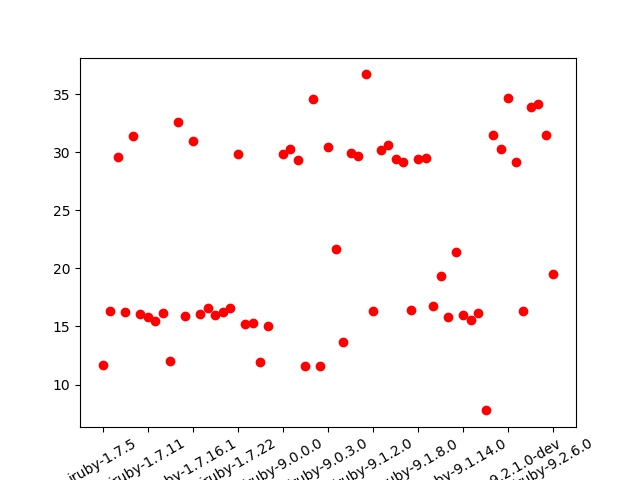
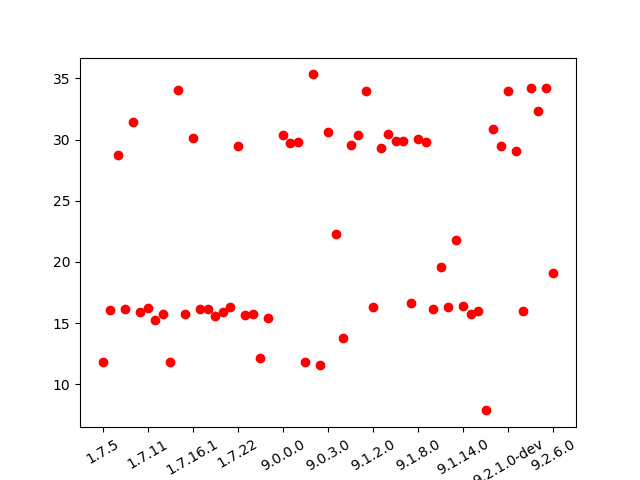
lots of stuff

diff --git a/stats.py b/stats.py
@@ -11,7 +11,13 @@ crubyStdDevs = []
 crubyVersions = []
 crubyVersionsLine = []
 crubyVersionsLineX = []
+crubyVersionsX = []
 crubyJumps = []
+
+newLineX = []
+newLine = []
+newLineV = []
+
 sortedCrubyJumps = []
 jrubyMeans = []
 jrubyStdDevs = []
@@ -19,13 +25,16 @@ jrubyVersions = []
 jrubyJumps = []
 sortedJrubyJumps = []
 
-for i in ['results.csv', 'jruby_results_flags.csv']:
+for file in ['cruby_results2_date.csv', 'jruby_results_flags2.csv']:
 
-	with open(i) as f:
+	with open(file) as f:
 
-		reader = csv.reader(f, delimiter=',')
+		if file == 'cruby_results2.csv' :
+			reader = reversed(list(csv.reader(f, delimiter=',')))
+		else :
+			reader = csv.reader(f, delimiter=',')
 
-		if i == 'jruby_results_flags.csv' :
+		if file == 'jruby_results_flags2.csv' :
 			#try:
 			#	reader = sorted(reader, key = lambda s: list(map(int, str(s[1])[6:].split('.'))))
 			#except ValueError:
@@ -34,11 +43,18 @@ for i in ['results.csv', 'jruby_results_flags.csv']:
 			reader = sorted(reader, key = lambda s: list(map(int, ((str((s[1].split('-'))[1])).split('.'))[:3])))
 		
 		ind = 0
+		max = 7
+		min = 2
+		localMaxVersion = 0
+		if file == 'cruby_results2_date.csv' :
+			max = 8
+			min = 3
+
 		for row in reader:
 			ind+=1
-			if len(row) == 7:
+			if len(row) == max:
 				times = []
-				for i in range(2, 7):
+				for i in range(min, max):
 					timeString = row[i].split(" ")[1]
 					times.append(float(timeString))
 
@@ -47,8 +63,18 @@ for i in ['results.csv', 'jruby_results_flags.csv']:
 					crubyMeans.append(np.mean(times))
 					crubyStdDevs.append(np.std(times))
 					crubyVersions.append(row[1][5:])
+					
 					crubyVersionsLine.append(np.mean(times))
-					crubyVersionsLineX.append(ind)
+					if file == 'cruby_results2_date.csv' :
+						crubyVersionsLineX.append(int(row[2]))
+						crubyVersionsX.append(int(row[2]))
+						if int(row[1][7]) >= localMaxVersion:
+							localMaxVersion = int(row[1][7])
+							newLineX.append(int(row[2]))
+							newLine.append(np.mean(times))
+							newLineV.append(row[1])
+					else :
+						crubyVersionsLineX.append(ind)
 				else:
 					jrubyMeans.append(np.mean(times))
 					jrubyStdDevs.append(np.std(times))
@@ -59,24 +85,32 @@ for i in ['results.csv', 'jruby_results_flags.csv']:
 					crubyMeans.append(NOVERSION)
 					crubyStdDevs.append(NOVERSION)
 					crubyVersions.append(row[1][5:])
+					if file == 'cruby_results2_date.csv' :
+						crubyVersionsX.append(int(row[2]))
 				else:
 					jrubyMeans.append(NOVERSION)
 					jrubyStdDevs.append(NOVERSION)
 					jrubyVersions.append("x")
 ##cRuby
 
+#print(newLineX)
+#print(newLine)
+#print(newLineV)
+
 #Get Jump Values
 crubyJumps.append(NOJUMP)
 for i in range(1, len(crubyMeans)) :
 	if (crubyMeans[i] != NOVERSION and crubyMeans[i-1] != NOVERSION) :
 		crubyJumps.append(crubyMeans[i] - crubyMeans[i-1])
+		#if crubyMeans[i] < crubyMeans[i-1] :
+			#print("Version {}, value: {}".format(crubyVersions[len(crubyJumps)-1], crubyMeans[i] - crubyMeans[i-1]))
 	else : 
 		crubyJumps.append(NOJUMP)
 
 #Finding max jump versions
 print("cRuby:")
 sortedCrubyJumps = crubyJumps.copy()
-sortedCrubyJumps.sort(reverse = True)
+sortedCrubyJumps.sort()
 for i in range(0, 10) :
 	jumpVal = sortedCrubyJumps[i]
 	print(jumpVal, end=', ')
@@ -88,7 +122,12 @@ for i in range(0, 10) :
 
 #for i in range(0, len(crubyVersions)) :
 #	xValsCruby.append(i)
-m, b = np.polyfit(crubyVersionsLineX, crubyVersionsLine, 1)
+
+#true if dates
+if True :
+	m, b = np.polyfit(newLineX, newLine, 1)
+else:
+	m, b = np.polyfit(crubyVersionsLineX, crubyVersionsLine, 1)
 
 crubyLine = []
 
@@ -132,18 +171,21 @@ CST=6
 crubyX = [int(i)*CST for i in np.arange(0, len(crubyVersions)/CST)]
 crubyVersionsPlot = (itemgetter(*crubyX)(crubyVersions))
 
+allXs = [i for i in range(2131)]
+
 plt.figure(figsize=(10, 7.6))
-plt.plot(crubyMeans, 'ro', markersize=12)
-plt.plot(crubyVersionsLineX, crubyLine, linewidth=6)
+plt.plot(crubyVersionsX, crubyMeans, 'ro', markersize=12)
+plt.plot(newLineX, newLine, 'go', markersize=12)
+plt.plot(crubyVersionsLineX, crubyLine, linewidth=6, alpha=0)
 plt.yticks(fontsize=17)
-plt.xticks(rotation=45, ha='right', fontsize=17)
-plt.xticks(crubyX, crubyVersionsPlot)
-plt.xlabel("cRuby Versions", fontsize=24)
+plt.xticks(fontsize=17)
+#plt.xticks(rotation=45, ha='right', fontsize=17)
+#plt.xticks(crubyX, crubyVersionsPlot)
+plt.xlabel("Time Since Original Version (days)", fontsize=24)
 plt.ylabel("Measured Result (fps)", fontsize=24)
 #plt.title()
 plt.tight_layout()
 plt.savefig("figRubyMeans.png")
-plt.show()
 plt.clf()
 
 plt.plot(crubyStdDevs, 'ro')
@@ -165,6 +207,7 @@ plt.plot(jrubyMeans, 'ro')
 plt.xticks(rotation=30)
 plt.xticks(jrubyX, jrubyVersionsPlot)
 plt.savefig("figJrubyMeans.png")
+plt.show()
 plt.clf()
 
 plt.plot(jrubyStdDevs, 'ro')

diff --git a/jstats.py b/jstats.py
@@ -1,0 +1,163 @@
+import csv
+import numpy as np
+import matplotlib.pyplot as plt
+from operator import itemgetter
+
+THRESHOLD = 25
+NOVERSION = None
+NOJUMP = -10
+TRIPLEPERFO = 60
+crubyMeans = []
+crubyStdDevs = []
+crubyVersions = []
+crubyVersionsLine = []
+crubyVersionsLineX = []
+crubyVersionsX = []
+crubyJumps = []
+
+newLineX = []
+newLine = []
+newLineV = []
+
+belowThresh = []
+aboveThresh = []
+
+sortedCrubyJumps = []
+jrubyMeans = []
+jrubyStdDevs = []
+jrubyVersions = []
+jrubyJumps = []
+sortedJrubyJumps = []
+
+
+for file in ['jruby_results3.csv', 'jruby_results_flags2.csv']:
+
+	with open(file) as f:
+
+		reader = csv.reader(f, delimiter=',')
+
+		reader = sorted(reader, key = lambda s: list(map(int, ((str((s[1].split('-'))[1])).split('.'))[:3])))
+		
+		ind = 0
+
+		for row in reader:
+			ind+=1
+			if len(row) == 7:
+				times = []
+				for i in range(2, 7):
+					timeString = row[i].split(" ")[1]
+					times.append(float(timeString))
+
+				#Basic stats calculation
+				if file == 'jruby_results3.csv':
+					crubyMeans.append(np.mean(times))
+					crubyStdDevs.append(np.std(times))
+					crubyVersions.append(row[1][6:])
+				else:
+					#withFlags
+					jrubyMeans.append(np.mean(times))
+					jrubyStdDevs.append(np.std(times))
+					jrubyVersions.append(row[1][6:])
+					if np.mean(times) > THRESHOLD :
+						aboveThresh.append(row[1])
+					else :
+						belowThresh.append(row[1])
+				times.clear
+			else:
+				if file == 'jruby_results3.csv':
+					crubyMeans.append(NOVERSION)
+					crubyStdDevs.append(NOVERSION)
+					crubyVersions.append(row[1][6:])
+				else:
+					jrubyMeans.append(NOVERSION)
+					jrubyStdDevs.append(NOVERSION)
+					jrubyVersions.append(row[1][6:])
+
+##jRuby
+
+print("Versions below Threshold of {}:".format(THRESHOLD))
+
+for i in belowThresh :
+	print(i)
+print()
+print("Versions above Threshold of {}:".format(THRESHOLD))
+
+for i in aboveThresh :
+	print(i)
+
+
+#Get Jump Values
+#jrubyJumps.append(NOJUMP)
+#for i in range(1, len(jrubyMeans)) :
+#	if (jrubyMeans[i] != NOVERSION and jrubyMeans[i-1] != NOVERSION) :
+#		jrubyJumps.append(jrubyMeans[i] - jrubyMeans[i-1])
+#	else : 
+#		jrubyJumps.append(NOJUMP)
+
+#Finding max jump versions
+#print("jRuby:")
+#sortedJrubyJumps = jrubyJumps.copy()
+#sortedJrubyJumps.sort(reverse = True)
+#for i in range(0, 10) :
+#	jumpVal = sortedJrubyJumps[i]
+#	print(jumpVal, end=', ')
+#	print(jrubyVersions[jrubyJumps.index(jumpVal)])
+
+
+
+#All manipulations done
+CST=6
+
+crubyX = [int(i)*CST for i in np.arange(0, len(crubyVersions)/CST)]
+crubyVersionsPlot = (itemgetter(*crubyX)(crubyVersions))
+
+allXs = [i for i in range(2131)]
+
+plt.figure(figsize=(10, 7.6))
+plt.plot(crubyVersions, crubyMeans, 'ro', markersize=12, alpha = 0.5)
+plt.plot(jrubyVersions, jrubyMeans, 'bo', markersize=12, alpha = 0.5)
+plt.yticks(fontsize=17)
+plt.xticks(fontsize=17)
+plt.xticks(rotation=45, ha='right', fontsize=17)
+plt.xticks(crubyX, crubyVersionsPlot)
+plt.xlabel("jRuby Versions", fontsize=24)
+plt.ylabel("Measured Results (fps)", fontsize=24)
+#plt.title()
+plt.tight_layout()
+plt.savefig("figRubyMeans.png")
+plt.show()
+plt.clf()
+
+plt.plot(crubyStdDevs, 'ro')
+plt.xticks(rotation=90)
+plt.xticks(crubyX, crubyVersionsPlot)
+plt.savefig("figRubyStdDevs.png")
+plt.clf()
+
+plt.plot(crubyJumps, 'ro')
+plt.xticks(rotation=90)
+plt.xticks(crubyX, crubyVersionsPlot)
+plt.savefig("figRubyJumps.png")
+plt.clf()
+
+jrubyX = [int(i)*CST for i in np.arange(0, len(jrubyVersions)/CST)]
+jrubyVersionsPlot = itemgetter(*jrubyX)(jrubyVersions)
+
+plt.plot(jrubyMeans, 'ro')
+plt.xticks(rotation=30)
+plt.xticks(jrubyX, jrubyVersionsPlot)
+plt.savefig("figJrubyMeans.png")
+plt.clf()
+
+plt.plot(jrubyStdDevs, 'ro')
+plt.xticks(rotation=90)
+plt.xticks(jrubyX, jrubyVersionsPlot)
+plt.savefig("figJrubyStdDevs.png")
+plt.clf()
+
+plt.plot(jrubyJumps, 'ro')
+plt.xticks(rotation=90)
+plt.xticks(jrubyX, jrubyVersionsPlot)
+plt.savefig("figJrubyJumps.png")
+plt.clf()
+	
